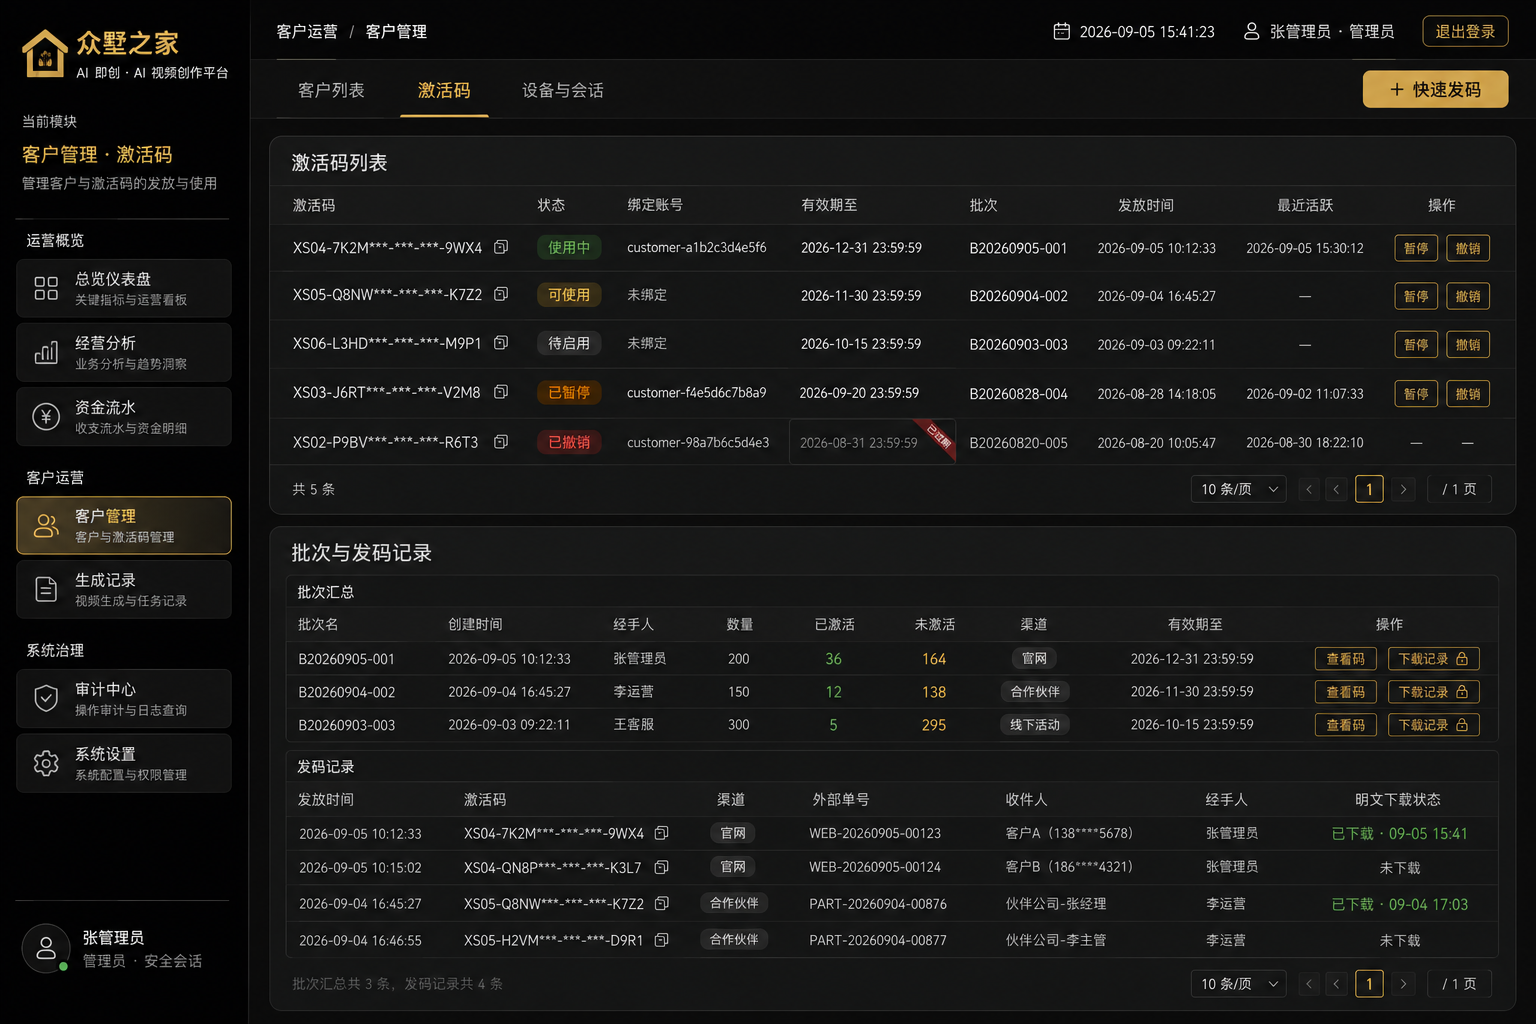
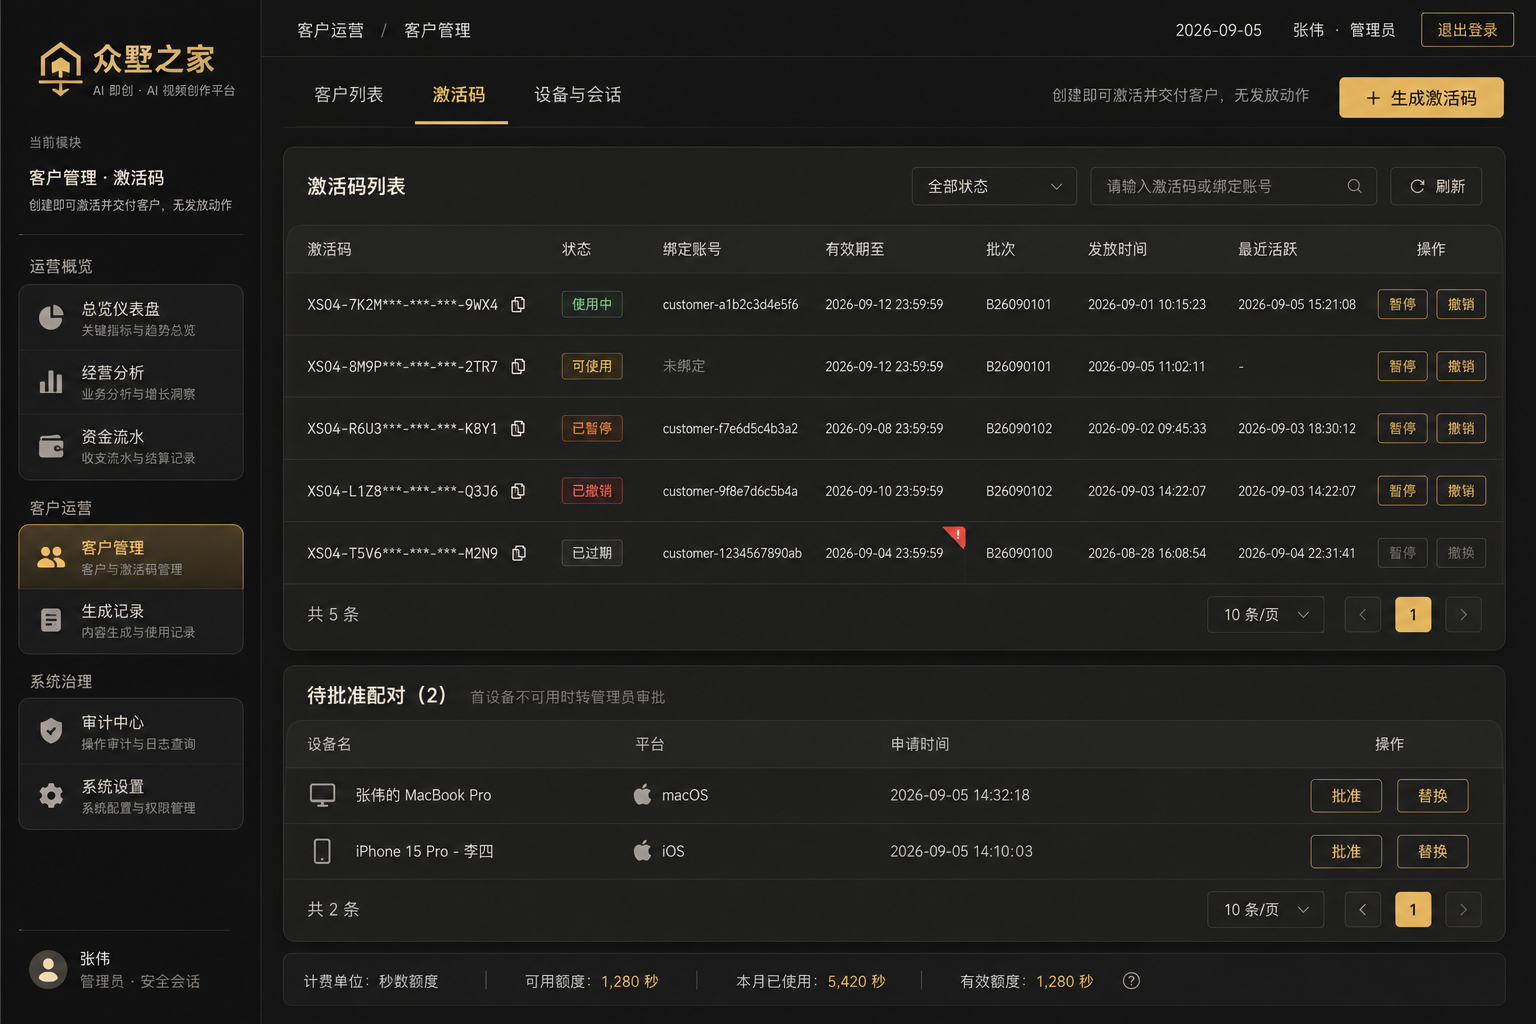
定稿激活码页签（创建即激活、去批次/发码记录）并重写工作任务清单 v2（逐项现状核对）

diff --git a/docs/design/admin-redesign/work-plan.md b/docs/design/admin-redesign/work-plan.md
@@ -1,103 +1,95 @@
-# 管理后台改版工作任务清单（2026-09-03）
+# 管理后台改版工作任务清单 v2（2026-09-05 定稿）
 
-> 约束：**不改样式**——沿用 client/src/admin/ui/ 现有组件（vocabulary 徽章、ConfirmDialog、表格）与 styles.css，只改内容（字段/筛选/数据口径）与布局（导航分组/页面组织/跨页跳转）。效果图仅表达信息结构，不表达视觉。
-> 流程：每个任务按仓库标准走——从 main 切 `feat/customer-v3-tXX-描述` 分支、测试先行、单任务单 PR、同步更新任务清单账本与证据。编号 ADM-xx 仅为本文引用，入账时接续账本现有 T 编号。
-> 依据：`backend-gap-analysis.md`（字段级排查）、12 页效果图（docs/design/admin-redesign/01-12）、2026-09-03 后台分析报告问题清单。
+> 蓝本：native-style-v4 效果图（导航 7 项、页签式、众墅之家品牌、按秒计费口径）+ 2026-09-05 四项裁决 + 「创建激活码即视为可激活、无发放动作、无批次/发码记录」决议。
+> 每项含【现状核对】：✅=后端已具备（前端改动即可）；🟡=数据已有、接口需扩展；🔴=不具备、需新开发（接口/迁移/新页）。
+> 流程：接续账本 T 编号、从 main 切分支、测试先行、单任务单 PR。本文取代 v1（ADM-01~26 按旧 12 页结构编制，已被 v4 页面结构取代）。
 
-## 前置决策（开工前需拍板，仅 1 项）
+## 阶段 0 · 基础
 
-- **DEC-1**：生成记录是否落设备归属（generation_batches/tasks 加 device_id，fenced 提交时写入；历史不可回填，仅新任务生效）。影响 ADM-16、ADM-22。不做则 09 页"设备"列与筛选取消。
-- 已按建议定案（无需再议）：EXPIRED 用查询派生（不动状态机）；balance_after 加列+回填；生成即发放用现有 auto_issue。
+**W1 品牌替换**
+范围：侧栏品牌区、登录页、页面标题、Tauri 窗口/安装包元数据、客户端品牌区。
+核对：文案硬编码于 AdminApp.tsx / App.tsx / src-tauri ✅（改动点明确）；🔴 金色屋形 Logo 素材待产出（所有者提供或 AI 生成后定稿）。
+类型：前端+素材。
 
-## 阶段一 · 纯前端，零后端改动（P0 快赢）
+**W2 导航合并与页签骨架**
+范围：AdminApp tabGroups 16→7（总览仪表盘/经营分析/资金流水/客户管理/生成记录/审计中心/系统设置）；新建页签 TabBar 组件（复用现有样式变量）；旧页面容器迁入对应页签。
+核对：现有 10 个页面组件全部保留复用 ✅；🔴 TabBar 组件、页签路由状态为新增。
+类型：前端。
 
-**ADM-01 导航与页面骨架重组**
-AdminApp.tsx tab 重新分组（运营概览：总览/客户与钱包/充值订单/账务流水；客户运营：客户详情/激活码/发码中心/设备/生成记录/会话；系统治理：调账/审计/支付/服务），新页面先落骨架占位。验收：三组导航、现 10 页功能无回归（全量测试过）。
+## 阶段 1 · 客户管理聚合页
 
-**ADM-02 充值订单页补内容**
-OrdersPage 补列：渠道、第三方单号、下单时间、支付时间（接口已返回）；查单同步保留 reason 确认。验收：4 列展示、空值兜底。
+**W3 客户列表页签**
+核对：用户名筛选、生成统计五项、掩码码、credits_spent ✅已返回；🟡接口缺：status/注册时间/余额区间筛选参数、display_name、钱包可用/冻结余额、设备槽位占用（join wallets + BOUND 子查询）；🔴前端：秒数口径列、行点击进详情。注意 credits_spent=SETTLE 笔数非金额。
+类型：接口扩展+前端。
 
-**ADM-03 账务流水页补内容与跳转**
-AccountsPage 流水表补列：时间、关联订单/任务（可点击跳对应页并带筛选）。验收：列齐全，点击跳转落点正确。
+**W4 激活码页签（创建即激活，无批次/发码记录）**
+核对：码列表接口字段（掩码/状态/绑定账号/设备内嵌/待批配对/total）✅；「创建即激活」= generate 接口 auto_issue=true（同事务翻转 ISSUED+DELIVERED 事件）✅后端已具备，前端固定传参并去掉发放概念；批次有效期可配置 ✅（接口本来就收 activation_expires_at，前端从硬编码一年改为输入项）；🟡接口缺：expires_at 字段（join 批次表）+派生"已过期"（EXPIRED 状态从不落库，须查询派生）；🔴前端：快速发码表单（数量/有效期/初始秒数/必填原因，去自动原因）、复制明文码补真实 reason、列表去掉批次/发放时间列（改"创建时间"）、操作按钮保留暂停/撤销。
+类型：前端为主+1 个接口小改。
 
-**ADM-04 激活码页补内容**
-ActivationCodesPage 补列：批次、发放时间（issued_at）；保留展开设备/待批配对。验收：列展示；"已过期"筛选选项待 ADM-10 后端就绪再上（本期不做）。
+**W5 设备与会话页签**
+核对：设备接口已支持 user_id/activation_code_id/status 筛选 ✅（现 UI 未用）；会话 live 接口字段（心跳/租约/epoch/槽位）✅；🟡接口缺：设备列表 join username/激活码掩码、在线状态（join 会话租约）、platform 筛选参数、汇总计数；🔴前端：左右分栏（设备表+在线会话卡）、租约进度条；可选：仅踢会话端点（复用 revoke_session）。
+类型：接口扩展+前端。
 
-**ADM-05 设备页断链修复（纯前端部分）**
-DevicesPage 补列 slot_no/user_id/activation_code_id；启用 API 已有的按客户/激活码/状态筛选表单；客户详情"查看设备"跳转带 userId 并自动应用。验收：从客户页一键看到该客户设备。
+**W6 客户详情 360°**
+核对：设备(？user_id)/订单/流水/调账/会话/单价各接口齐 ✅可前端拼装；🟡可选：按客户生成趋势聚合小端点（迷你图）。
+类型：前端为主。
 
-**ADM-06 会话页补内容**
-SessionsPage 补列：最近心跳、会话纪元、租约到期（已有数据）。验收：列展示。
+## 阶段 2 · 资金与经营
 
-**ADM-07 生成记录页前端部分**
-GenerationRecordsPage：状态中文徽章（vocabulary）、耗时列（completed_at-created_at）、错误码红色展示。验收：状态全类型有映射，耗时空值兜底。
+**W7 资金流水（充值订单｜额度流水两页签）**
+核对：订单时间/渠道/第三方单号字段 ✅已返回（纯前端补列）；流水时间/关联订单/任务 ✅；🟡接口缺：订单渠道/时间筛选参数、流水时间范围参数；🔴数据层：流水变动后余额（balance_after 加列+按零差额不变量回填，或查询期窗口函数——推荐加列）。
+类型：前端+接口+小迁移。
 
-**ADM-08 客户列表口径与内容**
-CustomersPage：列名"注册时间"改"激活时间"；补 user_id 列（供审计/会话页检索）；"需要处理"统计与状态筛选口径修正（前端过滤→服务端参数或明确标注当前页）；CSV 导出口径与页面一致。
+**W8 经营分析·利润总览（全新）**
+核对：🔴全部需开发——每日对外售价实体（date 唯一+768P/2K 价+录入人）、录入端点（写契约）、日利润聚合端点（收入=每日售价×结算秒数，成本=W9）、前端页（录入卡+日利润表+CSV）。口径已裁决：标准收入主口径；历史无成本数据标注口径起点不回填。
+类型：全新（后端+前端）。
 
-**ADM-09 发码流程改造（前端）**
-快速发码表单：有效期改为输入项（不再硬编码一年）、初始条数/批次名可填、操作原因必填输入（去自动原因）；接入 auto_issue=true（生成即发放）；DeliveriesPage 独立发放表单降级为"补发放"入口；复制明文码改真实 reason 输入。验收：新流程一次表单完成生成+发放；两类高危动作均有真实 reason 落审计。
+**W9 经营分析·成本明细（全新）**
+核对：🔴全部需开发——成本落库：任务终态写 actual_cost=输出秒数×费率快照（按分辨率分档），解析类任务落参考视频秒数（秘塔按参考视频同价计秒费，防成本低估）；日成本聚合端点（天×科目：768P/2K/解析/图片）；前端页（KPI+堆叠图+日明细+CSV）。历史无 actual_cost 标注口径起点。
+类型：全新（后端+前端）。
 
-**ADM-10 统计口径标注**
-DevicesPage/CustomersPage 概览卡标注统计范围（当前页/全量），避免误读。
+**W10 系统设置·费率管理（全新）**
+核对：设置基础设施（写契约/审计/auditor 只读）✅；🔴需开发——费率配置实体：上游成本 7 科目（视频生成 768P/2K 元/秒、解析参考视频 768P/2K 元/秒、首帧图片、人物五视图、Context IR）+对外售价档（768P/2K 元/秒）；读写端点；前端区块（表格+调整对话框+历史变更旧值→新值）；数值边界校验+变动>50% 二次告警+试算预览；任务提交时费率快照。
+类型：全新（后端+前端）。**本项是 W8/W9/W11 的公共底座，最优先。**
 
-## 阶段二 · 后端接口扩展 + 对应前端（P0/P1）
+## 阶段 3 · 按秒计费与生成扩展
 
-**ADM-11 客户查询扩展**（B1）
-GET /customers：+status/注册时间/余额区间参数；响应 +display_name、钱包可用/冻结（join wallets）、设备槽位占用（BOUND 子查询）。注意：credits_spent 是 SETTLE 笔数，文档标注。前端接余额/槽位列与筛选。
+**W11 按秒计费切换（最大后端项）**
+核对：现计费=每任务 1 条（迁移 022 形状 CHECK 锁 RESERVE=-1/+1）；🔴需开发——计费模型改「预留=结算=提交档位秒数」（4/15s 档，已裁决不透支：实际输出秒数仅进成本统计）；新迁移（055+，PG 重建 CHECK+SQLite 表重建，冻结迁移不碰，downgrade 拒绝）；钱包/流水/订单/调账/客户列表全链路条→秒口径；测试号余额数值平移（已裁决免补偿）；H3 usage.output_seconds 仅作成本与统计口径。
+类型：后端大项+迁移+前端联动。
 
-**ADM-12 设备查询扩展**（B2）
-GET /devices：响应 +username（join users）、masked_code（join activation_codes）、在线状态（join customer_session_state lease_until）；+platform 筛选参数。口径：在线以会话租约为准，last_active_at 语义=最后绑定时间（文档标注）。前端补列替换裸 ID。
+**W12 生成参数扩展（比例/数量）**
+核对：分辨率 768P/2K ✅、时长 4–15s ✅前端已有；ratio 服务端硬锁 adaptive（generation.py:5553）🔴需放开（7 档：自动/21:9/16:9/4:3/1:1/3:4/9:16）——**需真实链路验证，涉及真实 Provider 调用授权**；数量 1/2/4 🔴需开发（N 任务入同一批、逐任务幂等/计费/归档）；费用预估（对外价×秒×条）🔴前端+1 个试算接口（只返回对外价，不返回成本）。
+类型：后端+客户端。
 
-**ADM-13 激活码有效期与过期派生**（B3）
-GET /activation-codes：+expires_at（join 批次 activation_expires_at）+派生"已过期"标志（expires_at<now AND status IN GENERATED/ISSUED）；前端有效期列（过期红标）+筛选加"已过期"。不动状态机。
+**W13 反推提示词编辑与另存**
+核对：versions 表+prompt_version_id FK+prompt_snapshot_json ✅底座现成；🔴需开发——分析工作台编辑态、「另存为新提示词」端点（versions 加 scope/来源/作者，写审计）、生成器「我的提示词」选择器。
+类型：前端+1 端点。
 
-**ADM-14 订单/流水时间筛选**（B4/B5）
-GET /recharge-orders +channel、created_from/created_to；GET /wallet-transactions +时间范围。前端接筛选与渠道列筛选。
+**W14 客户端秒数化**
+核对：钱包/生成面板组件现成 ✅；🔴前端——额度单位秒、价目展示（768P/2K 元/秒）、充值档位换算秒数、流水计费明细、提交前费用预估。
+类型：前端。
 
-**ADM-15 审计与调账查询扩展**（B7/B8）
-GET /audit-log：+target_username 反解；支持 actor_username/target_username 检索参数。GET /customers/{id}/adjustments：+admin_username。前端审计页目标列显示用户名、筛选改用户名输入；调账列表显示操作人。
+## 阶段 4 · 收尾
 
-**ADM-16 生成记录过滤**（B6；若 DEC-1 通过含设备维度）
-GET /generation-records：+user_id/status/record_type/时间范围；分页实现从 5 表内存合并改为过滤下推+各表 COUNT。前端筛选栏（账号/类型/状态/时间；设备项待 DEC-1）。注意：图像/源帧类 charged_credits 恒 0。
+**W15 总览仪表盘**
+核对：对账 5 指标 ✅、在线数=live 会话 total ✅；🔴需开发——统计聚合端点（今日生成/秒数/成本/毛利、7 日趋势、待办四项+费率未配置告警、槽位占用；generation_tasks.created_at_utc 索引已备 ✅）；前端 KPI/组合图/待办。
+类型：新端点+前端。
 
-**ADM-17 generate auto_issue 渠道参数**（B9）
-POST generate 的 auto_issue 支持 channel/external_order_ref/recipient_ref（现固定 admin_console）；发码表单带渠道字段。写契约不变。
+**W16 审计中心（审计日志｜调账记录）**
+核对：actor 用户名反解 ✅、时间筛选 ✅、调账按客户列表 ✅；🟡接口缺——target 用户名反解、actor/target 按用户名检索、调账全局列表+操作人/来源单类型/时间筛选、操作人 username；🔴数据层：调账前后余额（admin_adjustments 加列，创建响应值落库）。变更明细（旧值→新值）：新写入点落 metadata+UNION 扩取，历史事件显示动作描述不虚构。
+类型：接口+前端+小迁移。
 
-## 阶段三 · 新端点 + 新页面（P1）
-
-**ADM-18 总览仪表盘**（C1）
-新端点 GET /api/control/dashboard/summary：今日生成/成功率/环比、近7日趋势（成功/失败双线）、活跃客户、今日充值合计、待办四项（待批配对 PENDING+未过期、失败任务、对账不一致复用 reconciliation、即将过期码）、槽位占用。AdminReader 权限。前端总览页（KPI 卡+趋势+待办，复用现有卡片样式），对账指标可点击跳订单页。
-
-**ADM-19 发码中心页**（C2/C3）
-新端点 GET /activation-code-batches（批次列表：创建人 username、数量、已发放/已激活计数、面值/额度/有效期、OPEN/CLOSED）+ GET /activation-code-deliveries（发放记录：码掩码、渠道、外部单号、收件人、发放人、时间）。前端发码中心页两 tab（批次与发码记录 / 快速发码）。
-
-**ADM-20 全局待批配对**（C4）
-新端点 GET /device-pairings/pending（PENDING+expires_at>now()）；前端会话页右侧待办栏 + 仪表盘待办联动。
-
-**ADM-21 客户详情 360° 页**（新页面）
-前端拼装：customers（码+统计）+ devices?user_id= + orders?user_id= + adjustments + sessions + unit-price + ADM-18 趋势（或轻量按客户聚合）。头卡操作按钮复用现有写流程（加款/免费发放/改价，保持 reason+来源单契约）。客户列表行点击进入。
-
-**ADM-22 调账独立页**（C-）
-GET 扩展：全局调账列表（操作人/目标客户/来源单类型/时间筛选）。前端"系统治理/调账记录"独立 tab；前后余额列待 ADM-23。
-
-**ADM-23（可选）仅踢会话端点**（C5）
-POST /customer-sessions/{user_id}/kick 复用 revoke_session（不动设备绑定）；会话页"强制下线"按钮接此端点，写契约+审计。
-
-## 阶段四 · 数据层（P2，决策后）
-
-**ADM-24 余额快照落库**
-迁移：wallet_transactions +balance_after（写入路径 RETURNING 落库）+ 按零差额不变量回填历史；admin_adjustments +balance_before/balance_after（创建响应值落库；append-only 触发器不挡加列）。前端流水/调账页补"变动后余额/前后余额"列。
-
-**ADM-25 生成记录设备归属**（依赖 DEC-1 通过）
-迁移：generation_batches（或 tasks）+device_id/session_epoch，fenced 提交事务写入（上下文现成）；前端生成记录设备列+筛选；标注仅新任务生效。
-
-**ADM-26 审计变更明细**
-UNION SQL 扩取已有键（改单价 old/new、调账金额条数）；新写入点（设置变更等）补 before/after 到 metadata_json；前端审计页"变更明细"列（旧值→新值）。历史事件无 before/after 的显示动作描述，不虚构。
+**W17 生成记录页**
+核对：全部展示字段 ✅、耗时=前端算 ✅、图像类扣费恒 0（口径注明）；🔴接口缺——任何筛选参数（user/status/type/时间，现仅 limit/offset，且 5 表内存合并分页需重构为过滤下推）；设备维度**不做**（任务表无归属字段、fence 证据不可逆、历史不可回填——建议永久移除该列，从图 v12 中忽略设备筛选）。
+类型：接口重构+前端。
 
 ## 依赖与顺序
 
-- ADM-01 先行（骨架）；阶段一其余任务可并行。
-- ADM-21 依赖 ADM-11/12/18；ADM-22 依赖 ADM-15；ADM-13 独立。
-- ADM-16 设备维度、ADM-25 依赖 DEC-1。
-- 全程不改 styles.css 与 ui 组件视觉；新增页面复用现有表格/徽章/卡片结构。
+W1/W2 先行（骨架）→ W10（费率底座）→ W9+W11（成本落库与按秒切换）→ W8（利润）→ W15（仪表盘含成本毛利 KPI）。
+W3–W7、W13、W14、W16、W17 可与上述并行穿插。
+外部依赖：W12 需真实 Provider 调用授权；W1 需 Logo 素材定稿。
+
+## 遗留决策（仅 1 项）
+
+- 生成记录设备归属：建议永久不做（数据层不存在、历史不可回填、按秒计费下价值低）；如坚持要做需 generation_batches 加 device_id 且仅新任务生效。默认按"不做"执行。

diff --git a/docs/design/admin-redesign/native-style-v4/prompts/v07-codes-issuance.md b/docs/design/admin-redesign/native-style-v4/prompts/v07-codes-issuance.md
@@ -1,5 +1,6 @@
-【页面主题】客户管理·激活码页签（取消独立发码中心，发码并入本页），面包屑：客户运营 / 客户管理。
+【页面主题】客户管理·激活码页签（最终版：创建即激活，无批次与发码记录概念），面包屑：客户运营 / 客户管理。
 【页面顶部页签】面包屑下方页签行：「客户列表」「激活码」（当前金色高亮）「设备与会话」。
-页签行右侧金色主按钮「+ 快速发码」（生成即发放：填数量、有效期、渠道、收件人、必填原因）。
-主体上半部分「激活码列表」表格，列：激活码（掩码等宽+复制图标）、状态徽章（使用中绿/可使用金/待启用灰/已暂停橙/已撤销红/已过期深灰）、绑定账号（或「未绑定」灰字）、有效期至（过期红色角标）、批次（小灰字）、发放时间、最近活跃、操作（暂停/撤销金边小按钮）。示例 5 行覆盖多状态。
-主体下半部分「批次与发码记录」两段小表：批次表（批次名/创建时间/经手人/数量/已激活/未激活/渠道/有效期至/操作「查看码」「下载记录」带小锁图标）3 行；发码记录表（发放时间/激活码掩码/渠道徽章/外部单号/收件人/经手人/明文下载状态「已下载·09-05 15:41」或「未下载」）4 行。
+页签行右侧金色主按钮「+ 生成激活码」（填数量、有效期至、初始秒数、必填操作原因；小字标注：创建即可激活并交付客户，无发放动作）。
+主体上半部分「激活码列表」表格，列：激活码（掩码等宽+复制图标）、状态徽章（使用中绿/可使用金/已暂停橙/已撤销红/已过期深灰）、绑定账号（或「未绑定」灰字）、有效期至（过期红色角标）、批次（小灰字）、发放时间、最近活跃、操作（暂停/撤销金边小按钮）。示例 5 行覆盖多状态。
+主体下半部分「待批准配对（2）」小卡：设备名+平台+申请时间，按钮「批准」「替换」，小字「首设备不可用时转管理员审批」。
+页面无批次、无发码记录、无发放动作概念：激活码生成后即为「可使用」，可直接交付客户激活。

diff --git a/docs/design/admin-redesign/README.md b/docs/design/admin-redesign/README.md
@@ -16,7 +16,7 @@
 | 系统治理 / 审计中心 | 审计日志｜调账记录 | 审计日志 + 调账记录 |
 | 系统治理 / 系统设置 | 支付与价格｜费率管理｜服务配置 | 支付与价格 + 服务配置（含费率管理） |
 
-**页面清单**：v01 总览仪表盘｜v02 资金流水·充值订单｜v03 资金流水·额度流水｜v04 经营分析·利润总览｜v05 经营分析·成本明细｜v06 客户管理·客户列表｜v07 客户管理·激活码（含快速发码+批次/发码记录）｜v08 客户管理·设备与会话｜v09 客户详情 360°｜v10 审计中心·审计日志｜v11 系统设置·费率管理｜v12 生成记录。
+**页面清单**：v01 总览仪表盘｜v02 资金流水·充值订单｜v03 资金流水·额度流水｜v04 经营分析·利润总览｜v05 经营分析·成本明细｜v06 客户管理·客户列表｜v07 客户管理·激活码（最终版：创建即激活，无批次/发码记录，待批配对卡）｜v08 客户管理·设备与会话｜v09 客户详情 360°｜v10 审计中心·审计日志｜v11 系统设置·费率管理｜v12 生成记录。
 客户端三页（生成面板/反推提示词/钱包）不受后台导航合并影响，沿用 v3 的 n08–n10。
 
 ## 历史版本
